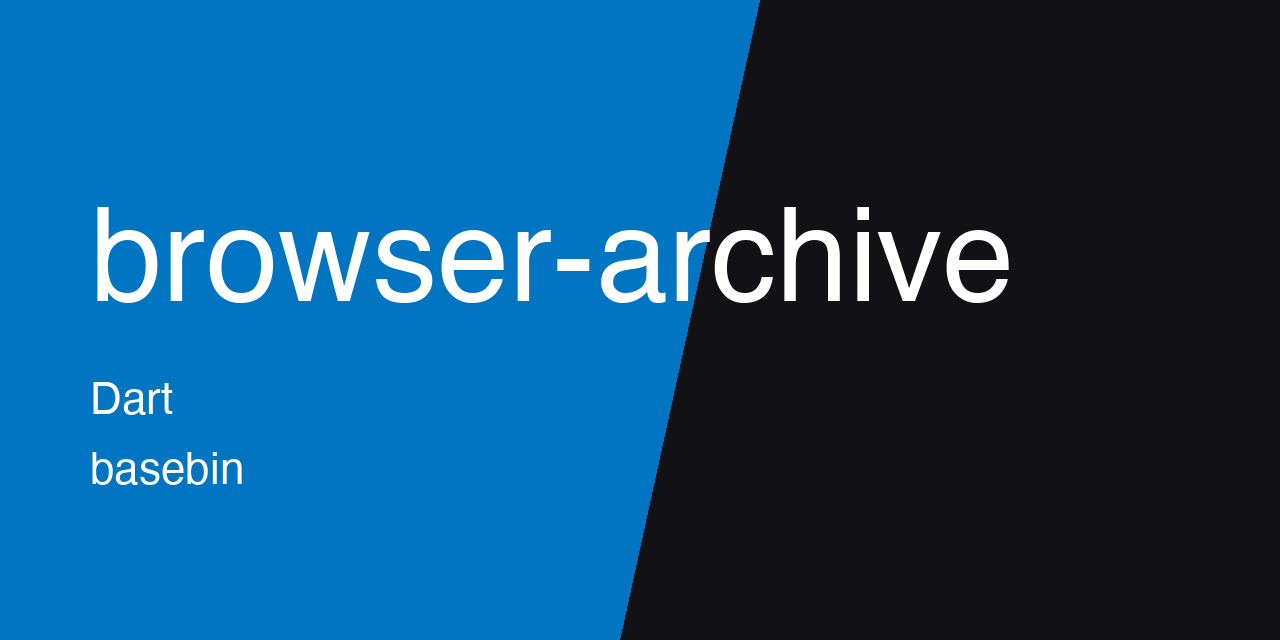
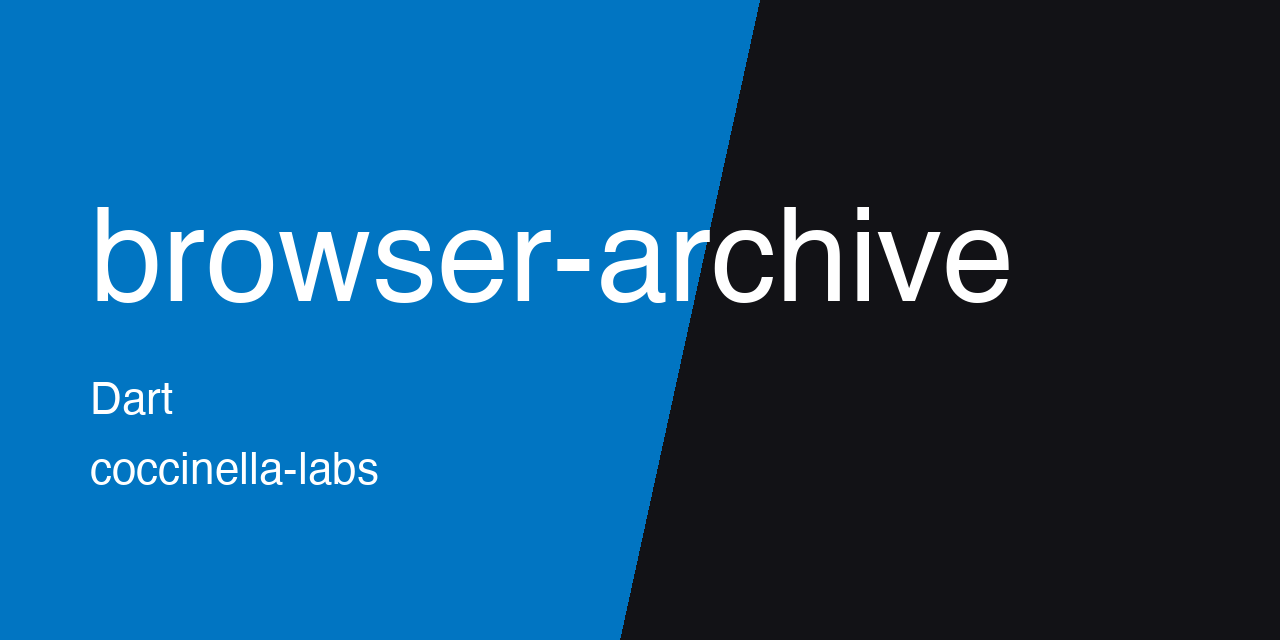
[docs] move thumbnail to coccinella-labs

Changed region(s): [[0.0625, 0.7188, 0.3125, 0.7812]]

diff --git a/README.md b/README.md
@@ -1,5 +1,5 @@
 <p align="center">
-  <img src="https://raw.githubusercontent.com/basebin/browser-archive/main/.github/assets/thumbnail.png" alt="browser-archive" width="100%">
+  <img src="https://raw.githubusercontent.com/Coccinella-Labs/browser-archive/main/.github/assets/thumbnail.png" alt="browser-archive" width="100%">
 </p>
 
 # Browser
